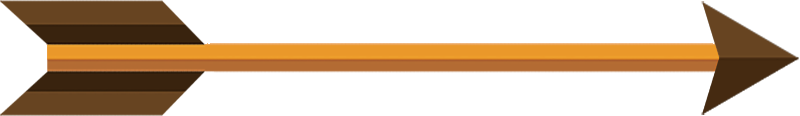
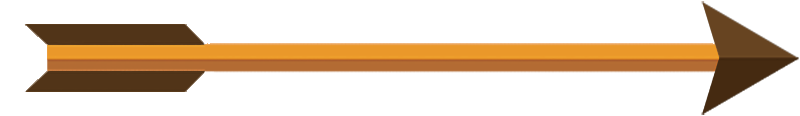
Bug fixes

diff --git a/index.html b/index.html
@@ -13,11 +13,6 @@
             padding: 0; 
             position: relative; 
             top: 29%;
-            /* bottom: 10%; */
-            /* left: 0; 
-            right: 0;
-            top: 0; 
-            bottom: 0; */
         }
 
         .header {
@@ -35,29 +30,28 @@
             margin-top: 0px;     
             left: 3%; 
             /* transform: translateX(-5%); Align center */
-            width: 320px; /* Adjust as needed */
+            width: 320px; 
             padding: 10px;
-            background: rgba(150, 149, 241, 0.8); /* Optional: to make it stand out */
-            border-radius: 10px; /* Optional: for rounded corners */
+            background: rgba(150, 149, 241, 0.8); 
+            border-radius: 10px; 
             box-shadow: 0 4px 8px rgba(0, 0, 0, 0.1); 
         }
 
         .button-row {
             display: flex;
             justify-content: space-between; /* Distribute space evenly between buttons */
-            padding: 10px; /* Optional: for some spacing */
+            padding: 10px; /* spacing */
         }
 
         .tab-button {
-            flex-grow: 1; /* Optional: makes buttons expand to fill the space */
+            flex-grow: 1; 
             text-align: center; /* Center the text inside buttons */
-            margin: 0 5px; /* Optional: adds a little space between buttons */
+            margin: 0 5px; /* space between buttons */
             box-shadow: 0 4px 8px rgba(0, 0, 0, 0.1);
         }
         .selected {
-            background-color: #f39339; /* Example color for selected state */
+            background-color: #f39339; 
             color: white;
-            /* Add other styles as needed */
         }
         .graph-container {
             display: flex;
@@ -109,10 +103,10 @@
                 margin-top: 0px;     
                 left: 3%; 
                 /* transform: translateX(-5%); Align center */
-                width: 320px; /* Adjust as needed */
+                width: 320px;
                 padding: 10px;
-                background: rgba(150, 149, 241, 0.8); /* Optional: to make it stand out */
-                border-radius: 10px; /* Optional: for rounded corners */
+                background: rgba(150, 149, 241, 0.8); 
+                border-radius: 10px; 
                 box-shadow: 0 4px 8px rgba(0, 0, 0, 0.1); 
             }
 
@@ -187,6 +181,18 @@
         .slider.round:before {
             border-radius: 50%;
         }
+
+        footer {
+            text-align: left;
+            padding: 15px;
+            /* background-color: #f3f3f3; Example background color */
+            position: absolute;
+            bottom: 0;
+            /* left: 2%; */
+            width: 100%;
+            font-size: 1em;
+            color: #333; /* Example text color */
+        }
     </style>
 </head>
 <body>
@@ -207,10 +213,13 @@
             <button class="tab-button" onclick="selectTab(event, 'Tab5')">Mode 5</button>
         </div>
     </div>
-    <script src="math.js"></script>
-    <script src="cats.js"></script>
-    <script src="sliders.js"></script>
-    <script src="diagram.js"></script>
+    <footer>
+        2023 Made by Dima Dudarev
+    </footer>
+    <script src="math.js?version=1.2"></script>
+    <script src="cats.js?version=1.2"></script>
+    <script src="sliders.js?version=1.2"></script>
+    <script src="diagram.js?version=1.2"></script>
     
 </body>
 </html>

diff --git a/cats.js b/cats.js
@@ -62,8 +62,8 @@ function draw_cat(ctx, x, y, type, inverse=false)
 
 function draw_watch(ctx, x, y, time){
     let [new_x, new_y] = convertCanvas(x, y);
-    ctx.drawImage(watch, new_x-watch.width*0.7/2, new_y-watch.height*0.7/2, watch.width*0.7, watch.height*0.7);
-    drawText(ctx, x, y-0.05, time);
+    ctx.drawImage(watch, new_x-watch.width*0.7/2, new_y-watch.height*0.75/2, watch.width*0.7, watch.height*0.7);
+    drawText(ctx, x, y-0.04, time);
 }
 
 
@@ -112,8 +112,10 @@ function drawSegmentWithLongArrows(ctx, p1, p2, num, speed, triangle, switcher) 
         let [left_x, left_y] = points[i];
         let [right_x, right_y] = points2[i];
 
-        draw_watch(ctx, left_x, left_y, (i-5)*2);
-        draw_watch(ctx, right_x, right_y, (i-5)*2);
+        draw_watch(ctx, left_x-0.5/horizontalScale, left_y, (i-5)*2);
+        drawCIrcle(ctx, left_x, left_y, 3, 'blue');
+        draw_watch(ctx, right_x+0.5/horizontalScale, right_y, (i-5)*2);
+        drawCIrcle(ctx, right_x, right_y, 3, 'red');
 
         if(switcher){
             let [x1, y1] = points2[4];
@@ -126,9 +128,9 @@ function drawSegmentWithLongArrows(ctx, p1, p2, num, speed, triangle, switcher) 
             right_x = new_right_x;
         }
 
-        arrow_x = (left_x + right_x) / 2 - 0.05;
+        arrow_x = (left_x + right_x) / 2 - 0.05/horizontalScale;
         arrow_y = (left_y + right_y) / 2;
-        arrow_length = Math.sqrt((right_x - left_x)**2 + (right_y - left_y)**2)-0.3;
+        arrow_length = Math.sqrt((right_x - left_x)**2 + (right_y - left_y)**2);
         arrow_angle = Math.atan2(-right_y + left_y, (right_x - left_x) * horizontalScale);
 
         draw_arrow(ctx, arrow_x, arrow_y, arrow_length, arrow_angle);
@@ -150,7 +152,7 @@ function draw_arrow(ctx, x, y, length, angle){
     desired_width = spacing*horizontalScale * length;
     new_x = new_x - desired_width/2;
     // ratio = arrow.height / arrow.width;
-    height_scale = 0.4;
+    height_scale = 0.3;
     new_y = new_y - arrow.height * height_scale/2;
 
     let scale = desired_width / arrow.width;
@@ -173,13 +175,13 @@ function drawText(ctx, x, y, text){
 }
 
 
-// function drawCIrcle(ctx, x, y, rad, color){
-//     ctx.beginPath();
-//     ctx.strokeStyle = color;
-//     ctx.lineWidth = rad+2;
-//     [new_x, new_y] = convertCanvas(x, y);
-//     ctx.arc(new_x, new_y, rad, 0, 2 * Math.PI);
-//     ctx.fillStyle = color;
-//     ctx.fill();
-//     ctx.stroke();
-// }
+function drawCIrcle(ctx, x, y, rad, color){
+    ctx.beginPath();
+    ctx.strokeStyle = color;
+    ctx.lineWidth = rad+2;
+    [new_x, new_y] = convertCanvas(x, y);
+    ctx.arc(new_x, new_y, rad, 0, 2 * Math.PI);
+    ctx.fillStyle = color;
+    ctx.fill();
+    ctx.stroke();
+}
